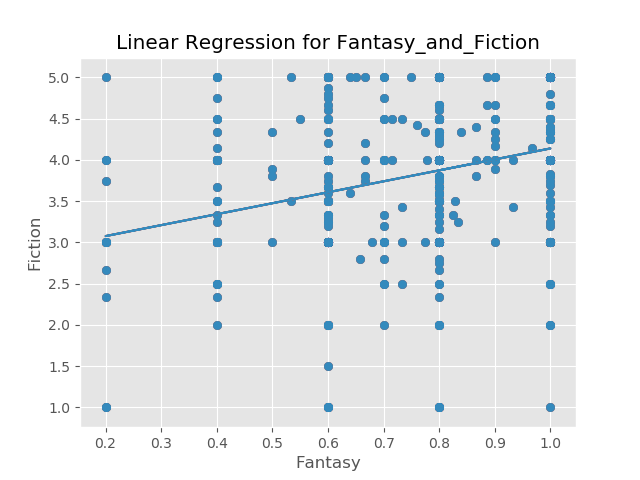
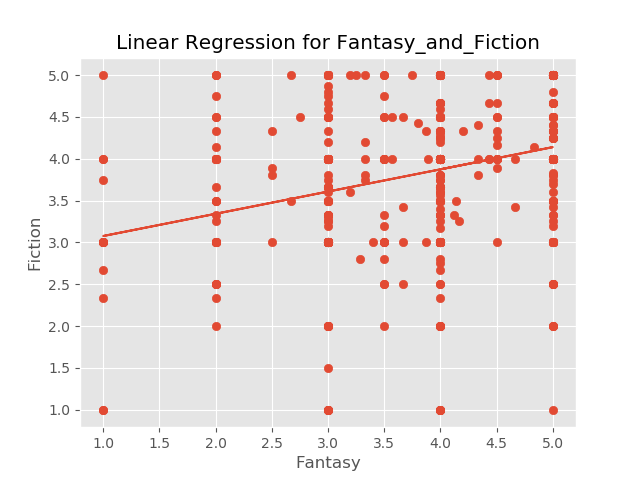
updated images

diff --git a/src/GenreTest.py b/src/GenreTest.py
@@ -92,8 +92,8 @@ def Ridge_model(df, df1,df2, name):
         a = ridge['lambda'][index]
         pred = Ridge(alpha=a).fit(X_train, y_train).predict(X_test)
         print(LR_R.rmsle(y_test, pred))
-        plt.scatter(X_test, y_test)
-        plt.plot(X_test, pred)
+        plt.scatter(X_test * 5, y_test)
+        plt.plot(X_test * 4, pred)
         plt.ylabel(df2)
         plt.xlabel(df1)
         plt.title('Ridge Regression for {}'.format(name))
@@ -111,10 +111,8 @@ def Lasso_model(df, df1, df2, name):
     a = lasso['lambda'][index]
     pred = Lasso(alpha=a).fit(X_train, y_train).predict(X_test)
     print(LR_L.rmsle(y_test, pred))
-    plt.plot(X_test, pred)
-    plt.scatter(X_test, y_test)
-    plt.scatter(X_test, y_test)
-    plt.plot(X_test, pred)
+    plt.plot(X_test * 5, pred)
+    plt.scatter(X_test * 5, y_test)
     plt.ylabel(df2)
     plt.xlabel(df1)
     plt.title('Lasso Regression for {}'.format(name))
@@ -128,10 +126,8 @@ def Linear_Regression(df, df1, df2, name):
     model = LinearRegression().fit(X_train, y_train)
     pred = model.predict(X_test)
     print(LR.linearReg(X_test,y_test).rmsle(y_test, pred))
-    plt.plot(X_test, pred)
-    plt.scatter(X_test, y_test)
-    plt.scatter(X_test, y_test)
-    plt.plot(X_test, pred)
+    plt.scatter(X_test * 5, y_test)
+    plt.plot(X_test * 5, pred)
     plt.ylabel(df2)
     plt.xlabel(df1)
     plt.title('Linear Regression for {}'.format(name))
